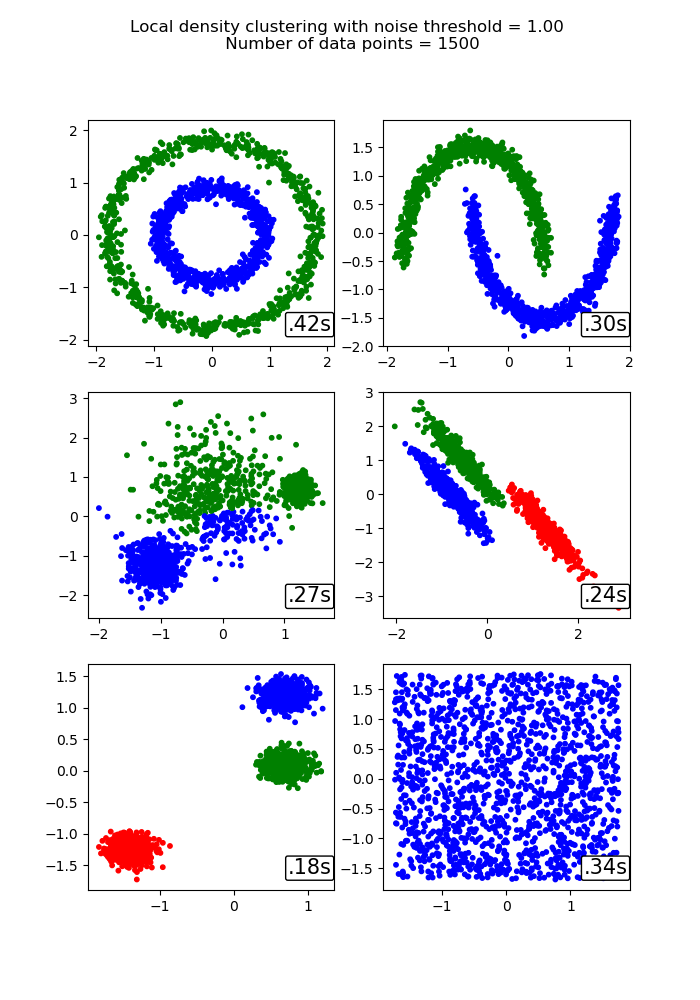
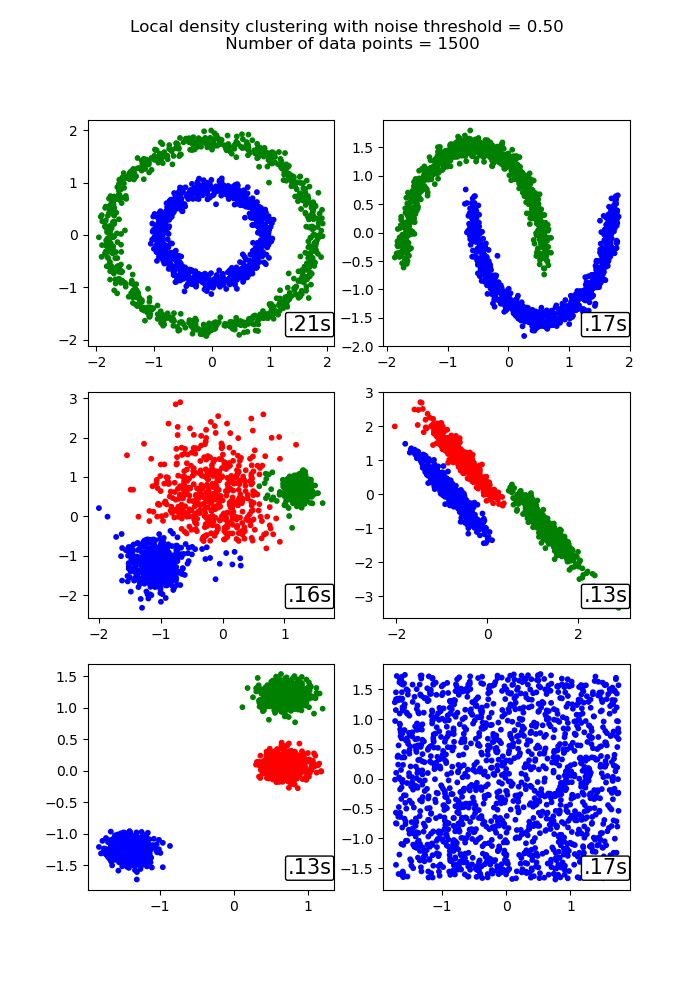
vectorized NH search

diff --git a/fdc/fdc.py b/fdc/fdc.py
@@ -117,7 +117,8 @@ class FDC:
 
         if self.nh_size is 'auto':
             self.nh_size = max([int(n_sample/10000.*100),10])
-        
+        if self.search_size > self.nh_size:
+            self.search_size = self.nh_size
         if self.verbose == 0:
             blockPrint()
         
@@ -343,26 +344,36 @@ class FDC:
         rho = self.rho
         nn_list = self.nn_list
         
-        new_leaves=nn_list[idx][1:self.nh_size]
-        NH=set(nn_list[idx][1:self.nh_size])  # starts from the initial minimal neighborhood set by user 
+        
+        new_leaves=nn_list[idx][:self.search_size]
+        
+        is_NH = np.zeros(len(self.nn_list),dtype=np.int)
+        #is_NH[new_leaves] =1
+        is_NH[new_leaves[rho[new_leaves] > eta]] = 1
+        #is_NH[nn_list[idx][1:self.nh_size]] = 1 
+        #NH=set(nn_list[idx][1:self.nh_size])  # starts from the initial minimal neighborhood set by user 
         current_label = cluster_label[idx]
-
+        # ideally here we cythonize what's below... this is highly ineficient ...
         while True:
-            if len(new_leaves) == 0: 
-                break
-            leaves=new_leaves
+            update = False
+            leaves=np.hstack(new_leaves)
             new_leaves=[]
 
-            for leaf in leaves:
-                if cluster_label[leaf] == current_label : # search neighbors only if in current cluster !
-                    nn_leaf = nn_list[leaf][1:self.search_size] # note, this search_size can be greater than self.nh_size !
+            y_leave = cluster_label[leaves]
+            leaves_cluster = leaves[y_leave == current_label]        
+            nn_leaf = nn_list[leaves_cluster]
 
-                    for nn in nn_leaf:
-                        if (rho[nn] > eta) & (nn not in NH):
-                            NH.add(nn)
-                            new_leaves.append(nn)
+            for i in range(1, self.search_size):
+                res = nn_leaf[is_NH[nn_leaf[:,i]] == 0, i]
+                pos = rho[res] > eta
+                if np.count_nonzero(pos) > 0: update = True;
+                is_NH[res[pos]] = 1
+                new_leaves.append(res[pos])
 
-        return np.array(list(NH))
+            if update is False:
+                break
+
+        return np.where(is_NH == 1)[0]
 
     def make_file_name(self):
         t_name = "fdc_nhSize=%i_eta=%.3f_ratio=%.2f.pkl"

diff --git a/fdc/classify.py b/fdc/classify.py
@@ -66,6 +66,7 @@ class CLF:
         elif self.clf_type == 'rf':
             if self.clf_args is not None:
                 clf = RandomForestClassifier(**self.clf_args)
+                #clf = RandomForestClassifier(**self.clf_args, warm_start=True)
             else:
                 clf = RandomForestClassifier()
 
@@ -86,6 +87,11 @@ class CLF:
         idx = np.arange(n_sample)
         yu_pos = {yu : idx[(y == yu)] for yu in y_unique}
         n_class = len(y_unique)
+        import time 
+
+        dt=0.0
+
+        import pickle
 
         for _ in range(n_average):
             while True:
@@ -101,8 +107,11 @@ class CLF:
 
             xtrain = (xtrain - mu)*inv_sigma # zscoring the data 
             xtest = (xtest - mu)*inv_sigma
-
+            pickle.dump([xtrain, ytrain], open('test.pkl','wb'))
+            s=time.time()
+            print(len(xtrain))
             clf.fit(xtrain, ytrain)
+            dt += (time.time() - s)
 
             t_score = clf.score(xtrain, ytrain) # predict on test set
             training_score.append(t_score)
@@ -113,6 +122,7 @@ class CLF:
 
             clf_list.append(clf)
             xtrain_scaler_list.append([mu,inv_sigma])
+        print("TRAINING ONLY\t",dt)
 
         self.scaler_list = xtrain_scaler_list # scaling transformations (zero mean, unit std)
         self.cv_score = np.mean(predict_score)

diff --git a/example/example2.py b/example/example2.py
@@ -59,7 +59,7 @@ fig= plt.figure(figsize=(7, 10))
 Setting FDC parameters (note these are the same across all datasets)
 """
 
-noise_threshold = 1.0
+noise_threshold = 0.5
 
 datasets = [noisy_circles, noisy_moons, varied, aniso, blobs, no_structure]
 for i_dataset, dataset in enumerate(datasets):
@@ -69,7 +69,7 @@ for i_dataset, dataset in enumerate(datasets):
 
     # create clustering estimators
 
-    model = FDC(eta=noise_threshold)
+    model = FDC(eta=noise_threshold, test_ratio_size=0.9)
 
     s=time.time()
 

diff --git a/setup.py b/setup.py
@@ -1,4 +1,5 @@
-from setuptools import setup
+from distutils.core import setup
+from Cython.Build import cythonize
 
 setup(name='fdc',
       version='0.1',
@@ -8,4 +9,5 @@ setup(name='fdc',
       author_email='alexandre.day1@gmail.com',
       license='MIT',
       packages=['fdc'],
-      zip_safe=False)
+      zip_safe=False,
+      )
